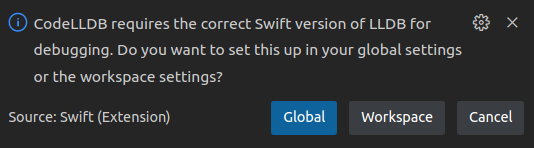
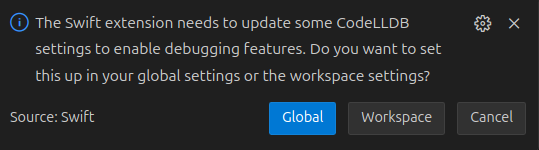
Update for Swift 6 for Ubuntu 24.04 and Fedora 40

diff --git a/editors/vscode-linux/README.md b/editors/vscode-linux/README.md
@@ -14,18 +14,26 @@ Out of the box, Visual Studio Code supports syntax highlighting and code formatt
 ✅ Quick help \
 ✅ Diagnostics \
 ✅ Fix-its \
-❌ Refactoring \
+✅ Refactoring \
 ✅ Run executables \
 ✅ Debugging \
 ✅ Testing
 
 ## Installation
 
-On Ubuntu, install Visual Studio Code via the **Ubuntu Software** application:
+On Linux, Visual Studio Code is distributed as a [**Snap**](https://snapcraft.io) package. The instructions below describe how you can use Snap to install Visual Studio Code for your distribution.
 
-![](install-ubuntu.png)
+### Ubuntu
 
-On Fedora, install Visual Studio Code from the [**Snap Store**](https://snapcraft.io). First, run the following commands in **Terminal** to install Snap:
+Ubuntu has built-in support for Snap. Run the following command to install Visual Studio Code: 
+
+```
+sudo snap install --classic code
+```
+
+### Fedora
+
+On Fedora, first install Snap with the following commands:
 
 ```
 sudo dnf install snapd
@@ -34,13 +42,15 @@ sudo ln -s /var/lib/snapd/snap /snap
 
 > **Note**: These commands require administrator privileges, so they’ll ask for your password.
 
-Next, log out or restart your system. After logging back in, install Visual Studio Code with the following command:
+Now log out or restart your system, then install Visual Studio Code:
 
 ```
 sudo snap install --classic code
 ```
 
-After installation, you can launch Visual Studio Code from the **Activities** screen:
+## Getting started
+
+After installation, you can launch Visual Studio Code by pressing the **Super** (or **Command** or **Windows**) key and searching for it:
 
 ![](launch.png)
 
@@ -50,7 +60,7 @@ You can also launch it from the command line, using the **`code`** command:
 code
 ```
 
-### Swift extension
+## Installing the Swift extension
 
 To install the Swift extension, select **View ▸ Extensions** from the menu bar, search “swift”, and install the extension published by the Swift Server Work Group:
 
@@ -58,15 +68,15 @@ To install the Swift extension, select **View ▸ Extensions** from the menu bar
 
 The Swift extension includes the [**CodeLLDB extension**](https://marketplace.visualstudio.com/items?itemName=vadimcn.vscode-lldb), on which it depends to run and debug programs using **LLDB**.
 
-After installation, the extension will prompt you to configure a Swift-specific version of LLDB:
+The first time it's activated, the extension will prompt you to configure a Swift-specific version of LLDB:
 
 ![](lldb.png)
 
-Select **Global** unless you intend to configure a custom version of LLDB.
+Select **Global** when you see this prompt.
 
-## Usage
+## Editing files
 
-To edit files with Visual Studio Code, select **File ▸ Open File...** from the menu bar or specify the files you want to open as arguments for the `code` command:
+To edit files with Visual Studio Code, select **File ▸ Open File...** from the menu bar, or specify the files you want to open as arguments for the `code` command:
 
 ```
 code hello.swift
@@ -80,9 +90,21 @@ If the file you’re editing contains top-level executable code, you can run it 
 
 ![](run-file.png)
 
-You’ll see the output of your program appear in the integrated terminal. 
+You’ll see the output of your program appear in the integrated terminal. If the terminal is hidden, select **View ▸ Terminal** from the menu bar to show it.
 
-To edit a Swift package, select **File ▸ Open Folder...** from the menu bar and open the directory that contains the **Package.swift** file. On the command line, you specify this directory as an argument for the `code` command:
+## Editing packages
+
+To create a new Swift package with an executable program, open the **Explorer** (**View ▸ Explorer**) and select **Create Swift Project**:
+
+![](explorer.png)
+
+Then select **Executable**:
+
+![](create-package.png)
+
+To open an existing package, select **File ▸ Open Folder...** from the menu bar and open the directory that contains the **Package.swift** file.
+
+On the command line, you specify this directory as an argument for the `code` command:
 
 ```
 code hello
@@ -100,7 +122,7 @@ If your package contains multiple executable targets, select **View ▸ Run** fr
 
 ![](run-debug.png)
 
-### Debugging
+## Debugging
 
 To debug a program, first set a breakpoint by clicking next to the line of code where you want the debugger to pause execution:
 
@@ -116,15 +138,13 @@ When you’re done debugging, use the **Stop** button on the floating toolbar or
 
 ## Testing
 
-To run unit tests, select **View ▸ Testing** from the menu bar to open the **Test Explorer**. There, you can either run all tests, or run a specific target, class, or test:
+To run unit tests, select **View ▸ Testing** from the menu bar to open the **Test Explorer**. There, you can either run all tests, or run specific tests or suites:
 
 ![](testing.png)
 
-If the Test Explorer shows a test discovery error, select **Terminal ▸ Run Build Task...** from the menu bar and run the **swift: Build All** task to build the test targets.
-
-Test results will appear in the integrated terminal, in the Test Explorer, and in the editor.
+Test results will appear in the Test Explorer, the Test Results pane, and in the editor.
 
 ---
 
-Last updated: 23 Sept. 2022 \
+Last updated: 19 Oct. 2024 \
 Author: [Steven Van Impe](https://github.com/svanimpe)

diff --git a/platforms/ubuntu/README.md b/platforms/ubuntu/README.md
@@ -1,30 +1,22 @@
-# Ubuntu 22.04 LTS
+# Ubuntu 24.04 LTS
 
 [**Ubuntu**](https://ubuntu.com) was the first Linux distribution to support Swift. Together with [Visual Studio Code](../../editors/vscode-linux/README.md), it makes an excellent development platform for students using Linux.
 
-These instructions rely on the official [**Swiftly**](https://swift-server.github.io/swiftly/) toolchain manager.
+## Installation
 
-Open the **Terminal** application and run the following command to install **swiftly**:
+These instructions rely on the [**Swift Community Apt Repository**](https://swiftlang.xyz).
 
-```
-curl -L https://swift-server.github.io/swiftly/swiftly-install.sh | bash
-```
-
-During installation, select **1** to proceed with the default installation.
-
-After installation, run the following command to make **swiftly** available in your terminal:
+Open the **Terminal** application and run the following commands to install this repository:
 
 ```
-source .local/share/swiftly/env.sh
+sudo apt install -y curl
+curl -s https://archive.swiftlang.xyz/install.sh | sudo bash
 ```
 
-Alternatively, you can also log out of your current desktop session, then log in again.
-
-
-Now that **swiftly** is available, install the latest release of Swift with the following command:
+You can now install the latest release of Swift with the following command:
 
 ```
-swiftly install latest
+sudo apt install swiftlang
 ```
 
 Finally, verify that you can run the following command:
@@ -35,5 +27,5 @@ swift --version
 
 ---
 
-Last updated: 22 Sept. 2023 \
+Last updated: 17 Oct. 2024 \
 Author: [Steven Van Impe](https://github.com/svanimpe)

diff --git a/README.md b/README.md
@@ -10,21 +10,21 @@ If you’re interested in learning Swift, please see our [Programming with Swift
 
 We only provide instructions for the latest release of each supported platform. These instructions *may* also apply to older releases:
 
-- [Fedora 36](platforms/fedora/README.md)
+- [Fedora 40](platforms/fedora/README.md)
 - [macOS Ventura](platforms/macOS/README.md)
-- [Ubuntu 22.04 LTS](platforms/ubuntu/README.md)
+- [Ubuntu 24.04 LTS](platforms/ubuntu/README.md)
 - [Windows 10 / 11](platforms/windows/README.md)
 
 ## Editors and IDEs
 
 - [Gedit](editors/gedit/README.md)
-    * Fedora 36
-    * Ubuntu 22.04
+    * Fedora 40
+    * Ubuntu 24.04
 - [Notepad++](editors/notepadplusplus/README.md)
     * Windows 10 / 11
 - [Visual Studio Code (Linux)](editors/vscode-linux/README.md)
-    * Fedora 36
-    * Ubuntu 22.04
+    * Fedora 40
+    * Ubuntu 24.04
 - [Visual Studio Code (Windows)](editors/vscode-windows/README.md)
     * Windows 10 / 11
 - [Xcode](editors/xcode/README.md)

diff --git a/platforms/fedora/README.md b/platforms/fedora/README.md
@@ -1,8 +1,8 @@
-# Fedora 36
+# Fedora 40
 
-[**Fedora**](https://getfedora.org) isn’t officially supported yet, but it has excellent support for Swift and even provides a native package for easy installation.
+[**Fedora**](https://www.fedoraproject.org) has excellent support for Swift and even provides a native package for easy installation.
 
-To install Swift on Fedora, open the **Terminal** program and run the following command:
+To install Swift on Fedora, open the **Terminal** application and run the following command:
 
 ```
 sudo dnf install -y swift-lang
@@ -18,5 +18,5 @@ swift --version
 
 ---
 
-Last updated: 21 Sept. 2022 \
+Last updated: 14 Oct. 2024 \
 Authors: [Ron Olson](https://github.com/tachoknight), [Steven Van Impe](https://github.com/svanimpe)
